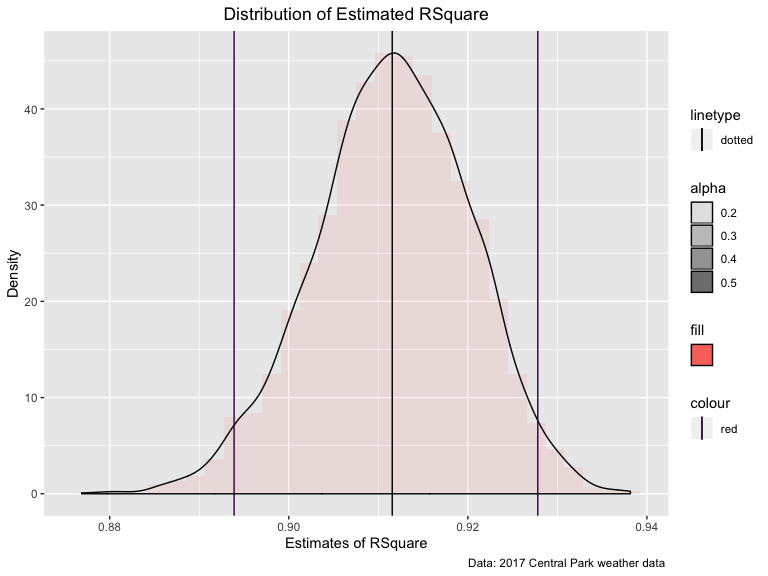
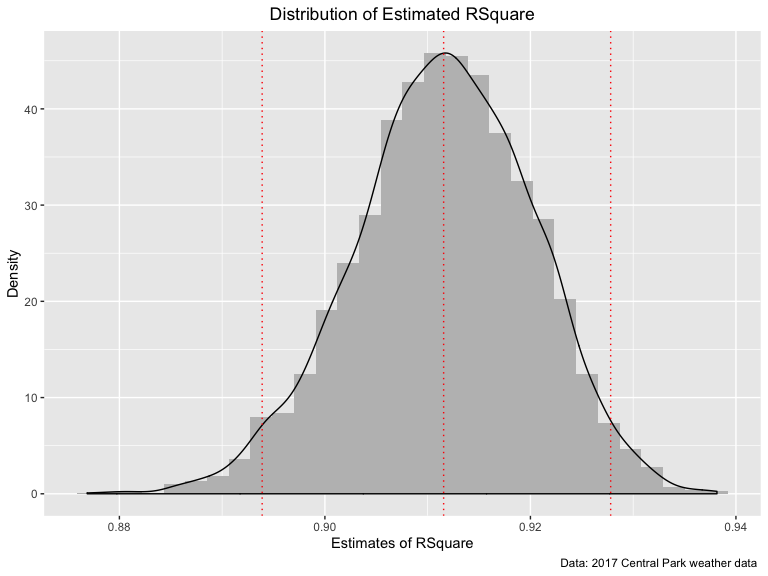
Final version!

diff --git a/p8105_hw6_yc384.md b/p8105_hw6_yc384.md
@@ -139,7 +139,7 @@ skimr::skim(birthweight)
     ##  n obs: 4342 
     ##  n variables: 20 
     ## 
-    ## ── Variable type:numeric ─────────────────────────────────────────────────────────
+    ## ── Variable type:numeric ───────────────────────────────────────────────────────────────────────
     ##  variable missing complete    n      mean      sd     p0     p25     p50
     ##   babysex       0     4342 4342    1.49     0.5     1       1       1   
     ##     bhead       0     4342 4342   33.65     1.62   21      33      34   
@@ -484,14 +484,14 @@ bootstrap_sample %>%
   filter(term == "tmin") %>% 
   select(r.squared, adj.r.squared) %>%
   ggplot() + 
-  geom_histogram(aes(x = r.squared, y =..density.., alpha = 0.2, fill="")) +
-  geom_density(aes(x = r.squared, y=..density.., alpha = 0.6)) +
+  geom_histogram(aes(x = r.squared, y =..density..), fill="grey") +
+  geom_density(aes(x = r.squared, y=..density..)) +
   labs(
     title = "Distribution of Estimated RSquare",
     x = "Estimates of RSquare",
     y = "Density",
     caption = "Data: 2017 Central Park weather data ") +
-  geom_vline(aes(xintercept = mean(r.squared))) +
+  geom_vline(aes(xintercept = mean(r.squared)), color="red", linetype="dotted") +
   theme(plot.title = element_text(hjust = 0.5))
 
 plot_r2
@@ -525,9 +525,9 @@ CI95_r2
 
 ``` r
 plot_r2 + 
-  geom_vline(aes(xintercept = 0.8938942,  colour="red", linetype="dotted")) +
-  geom_vline(aes(xintercept = 0.9278097,  colour="red", linetype="dotted")) +
-    labs(
+geom_vline(aes(xintercept = 0.8938942), color="red", linetype="dotted") +
+geom_vline(aes(xintercept = 0.9278097), color="red", linetype="dotted") +
+labs(
     title = "Distribution of Estimated RSquare",
     x = "Estimates of RSquare",
     y = "Density"
@@ -537,9 +537,9 @@ plot_r2 +
 <img src="p8105_hw6_yc384_files/figure-gfm/unnamed-chunk-15-1.png" width="90%" />
 
 **Note:** From above plot, we can see that the distribution of R square
-is close to a normal distribution with a little heavy tail on the right.
-The mean is a little over 0.91 and a 95% CI of (0.89, 0.93). This
-indicates that our model fits the data pretty well.
+is close to a bell shape, which indicates it follows a normal
+distribution. The mean is a little over 0.91 and a 95% CI of (0.8938410,
+0.9275271 ). This indicates that our model fits the data pretty well.
 
   - We then do a log transformation of the results and compute the 95%
     CI for log(β̂0∗β̂1) and we add the lower and upper bounds to the
@@ -574,19 +574,20 @@ CI95_logb01
 
 ``` r
 log_bs_sample %>% 
-  ggplot() + geom_histogram(aes(x = log_b01, y =..density.., alpha = 0.2, fill = "red")) +   
+  ggplot() + geom_histogram(aes(x = log_b01, y =..density..), fill = "grey") +
   labs(
     title = "Distribution Plot of the Estimate of log(β̂0 ∗ β̂1)",
     x = "Estimate of log(β̂0 ∗ β̂1)",
     y = "Density",
     caption = "Data: 2017 Central Park weather data") +
-  geom_density(aes(x = log_b01, y=..density.., alpha = 0.6)) +
-  geom_vline(aes(xintercept = mean(log_b01), colour="red", linetype="dotted")) +
-  geom_vline(aes(xintercept = 1.965296,  colour="red", linetype="dotted")) +
-  geom_vline(aes(xintercept = 2.057525,  colour="red", linetype="dotted")) 
+  geom_density(aes(x = log_b01, y=..density..)) +
+  geom_vline(aes(xintercept = mean(log_b01)), colour="red", linetype="dotted") +
+  geom_vline(aes(xintercept = 1.965296), colour="red", linetype="dotted") +
+  geom_vline(aes(xintercept = 2.057525), colour="red", linetype="dotted") 
 ```
 
 <img src="p8105_hw6_yc384_files/figure-gfm/unnamed-chunk-18-1.png" width="90%" />
 
-**Note:** From the above plot, we can see that log(β̂0∗β̂1) follows a
-normal distributioasan as well with a heavier tail on the left.
+**Note:** The 95% CI for log(β̂0∗β̂1) is (1.964572, 2.059126). From the
+above plot, we can see that log(β̂0∗β̂1) follows a normal
+distributioasan as well.
